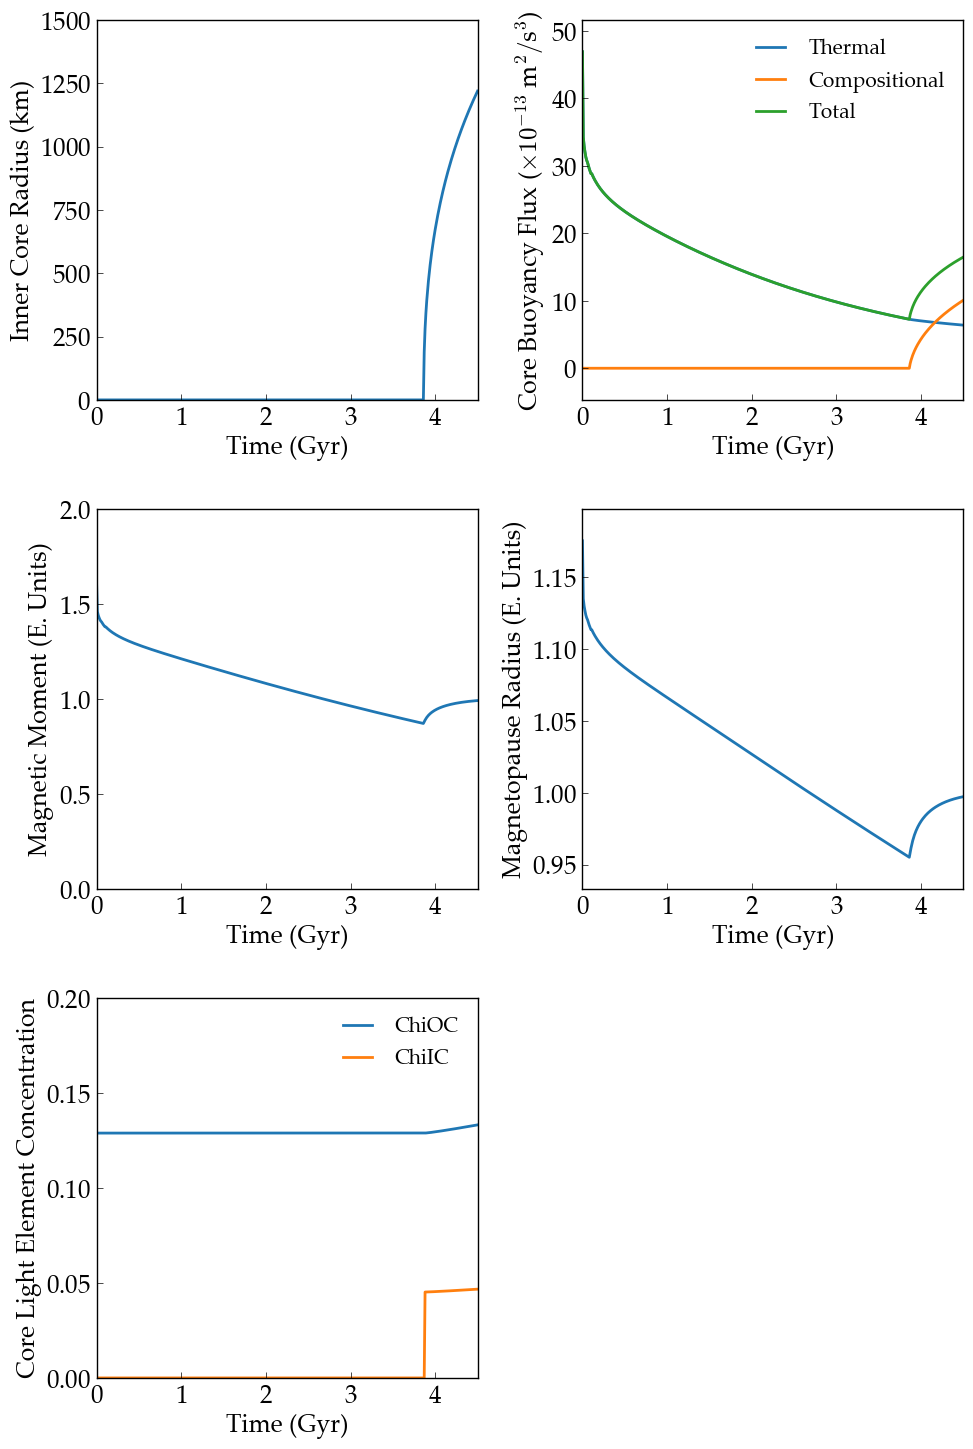
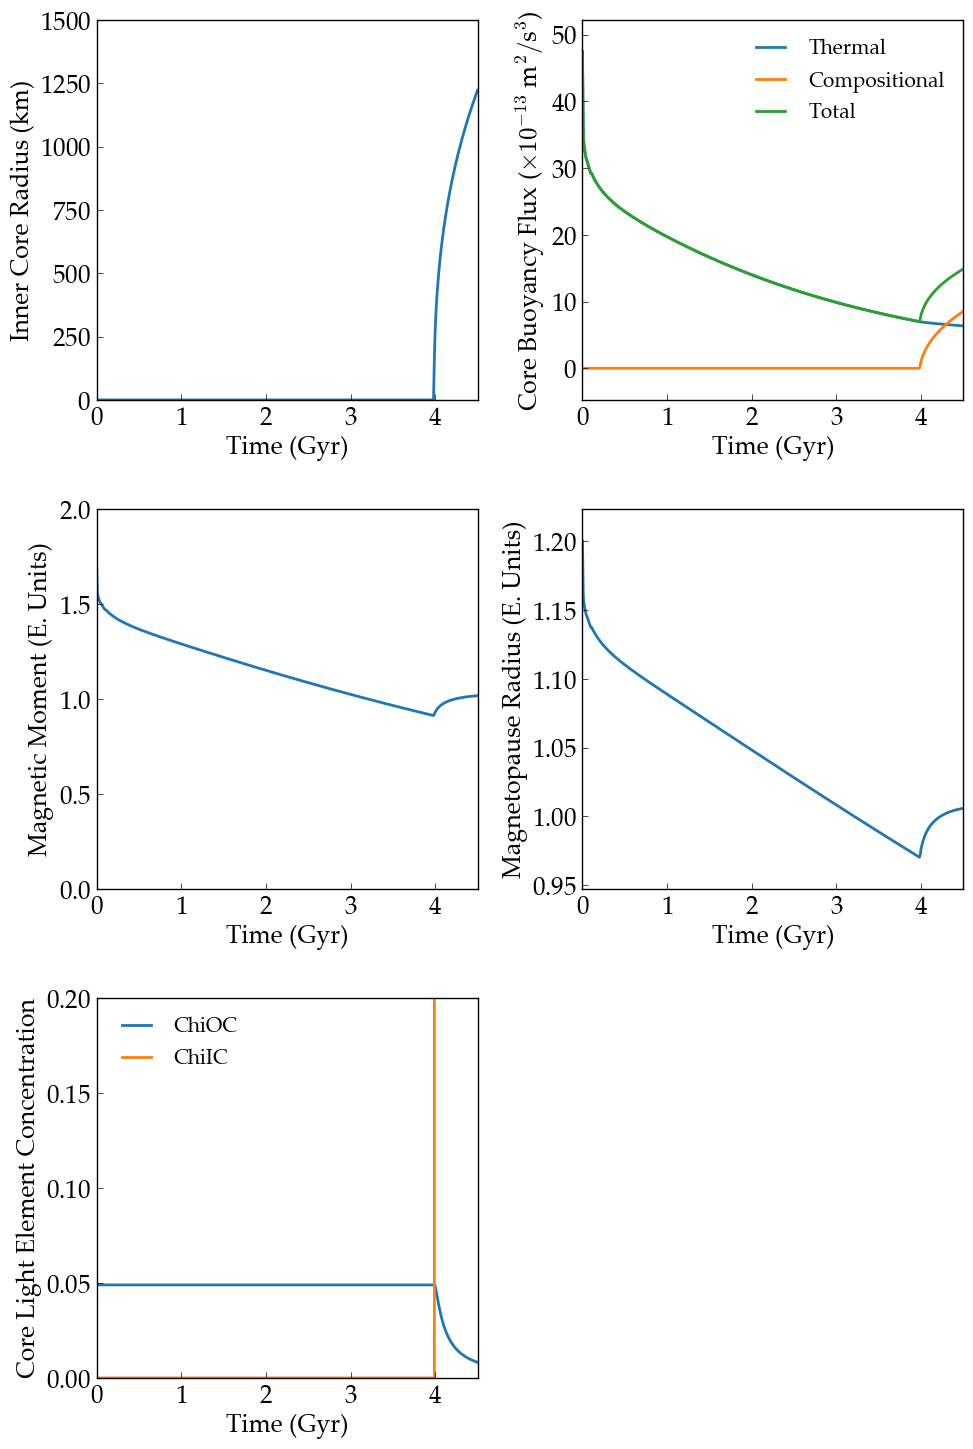
Recalibrated EarthInterior, changed thermint.h

diff --git a/src/thermint.h b/src/thermint.h
@@ -79,7 +79,7 @@
 #define STIFFNESS        1.7169e13              /**< [Pa] Effective stiffness of mantle (calibrated to k2=0.3, Q=100) */
 #define SHMODREF         6.24e4                 /**< [Pa] Reference kinematic mantle shear modulus */
 #define VISCREF          6e7                    /**< [m^2/s] Reference kinematic mantle viscosity */
-#define VISCJUMPMAN      4.55                   /**< [nd] Viscosity jump from upper to lower mantle */
+#define VISCJUMPMAN      2.42                   /**< [nd] Viscosity jump from upper to lower mantle */
 #define FIXVISCJUMPMAN   0                      /**< [nd] (default) Option to fix viscjumpulm. if =0 then viscLM is computed from TLMan. */
 #define VISCJUMPMMAN     10.                    /**< [nd] Viscosity jump from upper to average (mid) mantle */
 #define VISCMELTB        2.5                    /**< [nd] Viscosity-melt reduction coefficient "B" (DB15 eq 8) */
@@ -97,7 +97,7 @@
 #define DSOLIDUS         +1.993e4               /**< [K] Solidus D coefficient */
 #define DTLIQMAN         +500.0                 /**< [K] Mantle liquidus offset, T_liq=T_sol+DTLIQMAN */
 #define DLIND            7000.0*KM              /**< [m] Lindemann's law length scale for iron liquidus "D_Fe" (DB15 A23) */
-#define TREFLIND         5705.0                 /**< [K] Lindemann's law reference temp. "T_Fe0" (DB15 A23) */
+#define TREFLIND         5451.6                 /**< [K] Lindemann's law reference temp. "T_Fe0" (DB15 A23) */
 #define DVLIQDTEMP       8e17                   /**< [m^3/K] Approximation of change in mantle liquid volume with T_m, DV_liq/DT  (DB15) */
 #define ERUPTEFF         0.1                    /**< [nd] (Default) Mantle melt heat loss eruption efficiency */
 /* Continental Crust */

diff --git a/examples/EarthInterior/makeplot.py b/examples/EarthInterior/makeplot.py
@@ -20,7 +20,7 @@ if (sys.argv[1] != 'pdf' and sys.argv[1] != 'png'):
 
 out = vplot.GetOutput()
 # Print final state
-#print('Final: t=%.3f TUMan=%.1f TMan=%.1f TCMB=%.1f HflowUMan=%.1f HflowCMB=%.1f RadPowerMan=%.1f RadPowerCore=%.1f MagMom=%.1f RIC=%.1f'%(out.earth.Time[-1],out.earth.TUMan[-1],out.earth.TMan[-1],out.earth.TCMB[-1],out.earth.HflowUMan[-1],out.earth.HflowCMB[-1],out.earth.RadPowerMan[-1],out.earth.RadPowerCore[-1],out.earth.MagMom[-1],out.earth.RIC[-1]))
+print('Final: t=%.3f TUMan=%.1f TMan=%.1f TCMB=%.1f HflowUMan=%.1f HflowCMB=%.1f RadPowerMan=%.1f RadPowerCore=%.1f MagMom=%.1f RIC=%.1f'%(out.earth.Time[-1],out.earth.TUMan[-1],out.earth.TMan[-1],out.earth.TCMB[-1],out.earth.HflowUMan[-1],out.earth.HflowCMB[-1],out.earth.RadPowerMan[-1],out.earth.RadPowerCore[-1],out.earth.MagMom[-1],out.earth.RIC[-1]))
 
 # Plots
 rows=3
